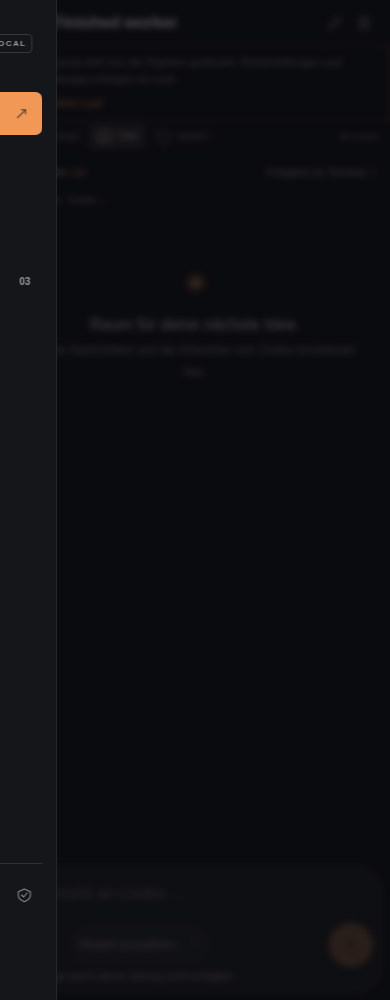
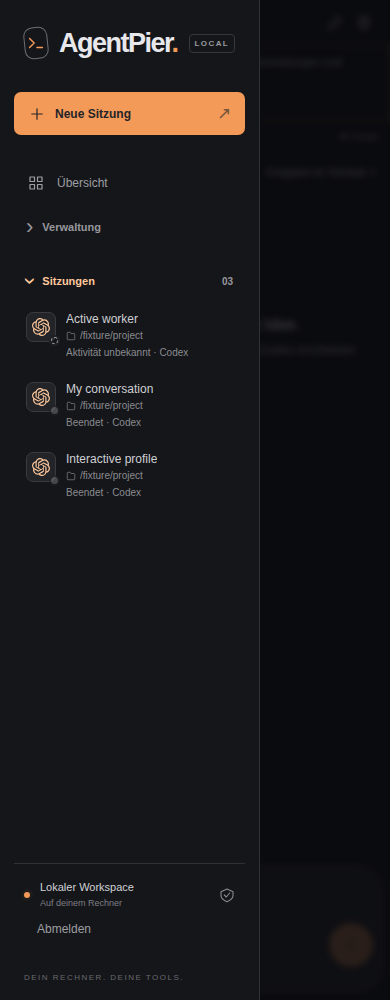
test: wait for mobile navigation before capturing sidebar

diff --git a/tests/browser/pipeline-session-list.spec.js b/tests/browser/pipeline-session-list.spec.js
@@ -52,8 +52,14 @@ for (const width of [1440, 390]) {
     await expect(
       sidebar.getByRole("button", { name: /Interactive profile/ }),
     ).toBeVisible();
-    if (width === 390)
+    if (width === 390) {
+      await expect
+        .poll(() =>
+          sidebar.evaluate((element) => Math.round(element.getBoundingClientRect().left)),
+        )
+        .toBe(0);
       await page.screenshot({ path: "test-results/pipeline-session-list-mobile.png" });
+    }
     state.sessions.find((item) => item.id === "active").status = "stopped";
     await page.reload();
     await expect(sidebar.locator(".session-item")).toHaveCount(2);
